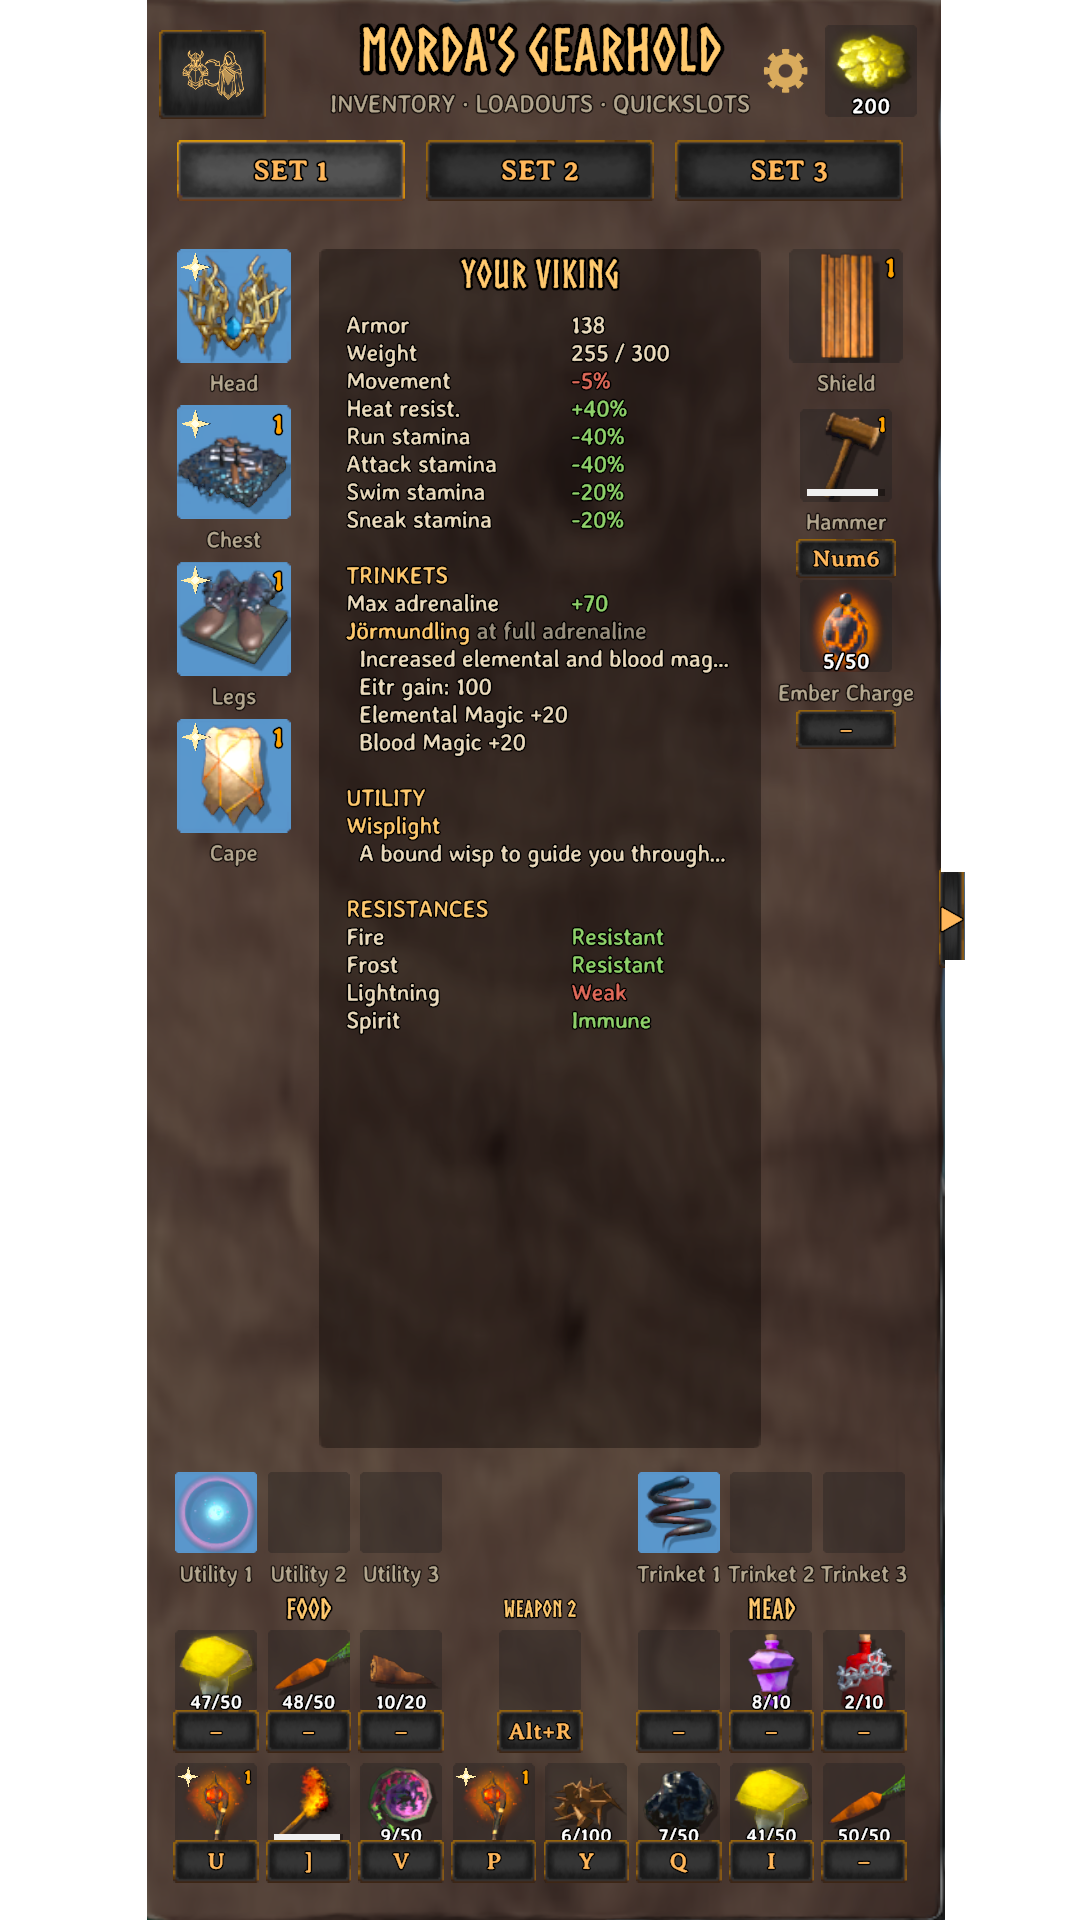
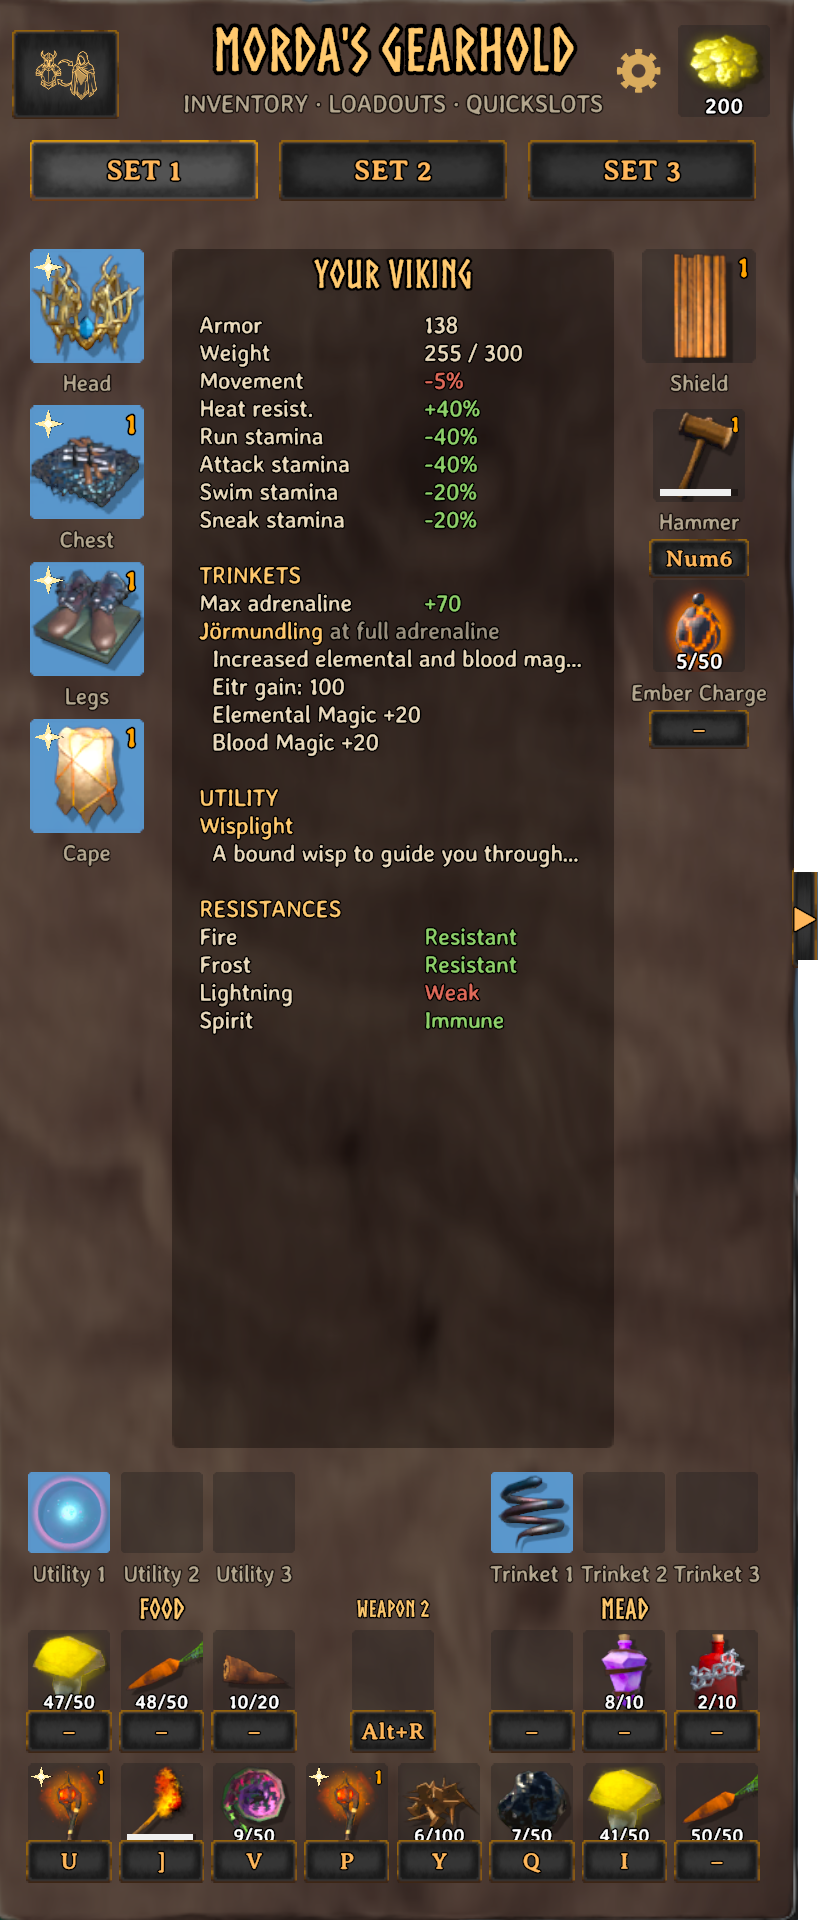
Screenshots trimmed to their opaque area; HUD bars and SLOTS windows as two pictures

diff --git a/README.md b/README.md
@@ -75,6 +75,8 @@ Up to nine slots (a column under the shield and one under the cape) take only th
 - The items stay real inventory items (weight, tombstone and saving work as usual) and belong to the active set, so each set can hold something else in the same slot. The allowed names are the same for all sets.
 - Each slot has its own hotkey (config `Custom1` to `Custom9`, or the key button under the slot): it uses the item (eat, drink, equip).
 
+![The SLOTS window](https://raw.githubusercontent.com/morda0511/MordasGearhold/main/thunderstore-assets/screenshots/slots-window.png)
+
 - **SLOTS window:** the settings gear in the panel's top bar has a SLOTS button. There you set how many trinket, utility, food, mead and quickslots you have, and type the prefab names of the custom slots. The same values are in the config file.
 
 ## HUD bars
@@ -82,7 +84,7 @@ Your quickslots, food and meads as small bars on the screen, so you do not need 
 
 - **Quickslot bar on the HUD:** at the bottom centre you see every occupied quickslot with its item and amount, and its hotkey on one line above it (also long keys like `Alt+1`). A changed key shows up immediately. The bar hides while the inventory is open; its size is set with `QuickslotBarScale`.
 
-![The HUD bars window (top) and the SLOTS window (bottom)](https://raw.githubusercontent.com/morda0511/MordasGearhold/main/thunderstore-assets/screenshots/Hud%2BOnventory%20Settings.png)
+![The HUD bars window](https://raw.githubusercontent.com/morda0511/MordasGearhold/main/thunderstore-assets/screenshots/hud-bars-window.png)
 
 - **Move the bars:** the settings gear in the panel's top bar opens a small window (the HUD bars window). Pick QUICKSLOTS, FOOD or MEAD, move that bar with the sliders (left/right, up/down), set its size and choose ROW or COLUMN for it. While it is open the inventory steps aside and all three bars show on screen, so you see every move at once. RESET puts the chosen bar back to its default spot, size and layout.
 

diff --git a/thunderstore/MordasGearhold/README.md b/thunderstore/MordasGearhold/README.md
@@ -75,6 +75,8 @@ Up to nine slots (a column under the shield and one under the cape) take only th
 - The items stay real inventory items (weight, tombstone and saving work as usual) and belong to the active set, so each set can hold something else in the same slot. The allowed names are the same for all sets.
 - Each slot has its own hotkey (config `Custom1` to `Custom9`, or the key button under the slot): it uses the item (eat, drink, equip).
 
+![The SLOTS window](https://raw.githubusercontent.com/morda0511/MordasGearhold/main/thunderstore-assets/screenshots/slots-window.png)
+
 - **SLOTS window:** the settings gear in the panel's top bar has a SLOTS button. There you set how many trinket, utility, food, mead and quickslots you have, and type the prefab names of the custom slots. The same values are in the config file.
 
 ## HUD bars
@@ -82,7 +84,7 @@ Your quickslots, food and meads as small bars on the screen, so you do not need 
 
 - **Quickslot bar on the HUD:** at the bottom centre you see every occupied quickslot with its item and amount, and its hotkey on one line above it (also long keys like `Alt+1`). A changed key shows up immediately. The bar hides while the inventory is open; its size is set with `QuickslotBarScale`.
 
-![The HUD bars window (top) and the SLOTS window (bottom)](https://raw.githubusercontent.com/morda0511/MordasGearhold/main/thunderstore-assets/screenshots/Hud%2BOnventory%20Settings.png)
+![The HUD bars window](https://raw.githubusercontent.com/morda0511/MordasGearhold/main/thunderstore-assets/screenshots/hud-bars-window.png)
 
 - **Move the bars:** the settings gear in the panel's top bar opens a small window (the HUD bars window). Pick QUICKSLOTS, FOOD or MEAD, move that bar with the sliders (left/right, up/down), set its size and choose ROW or COLUMN for it. While it is open the inventory steps aside and all three bars show on screen, so you see every move at once. RESET puts the chosen bar back to its default spot, size and layout.
 
